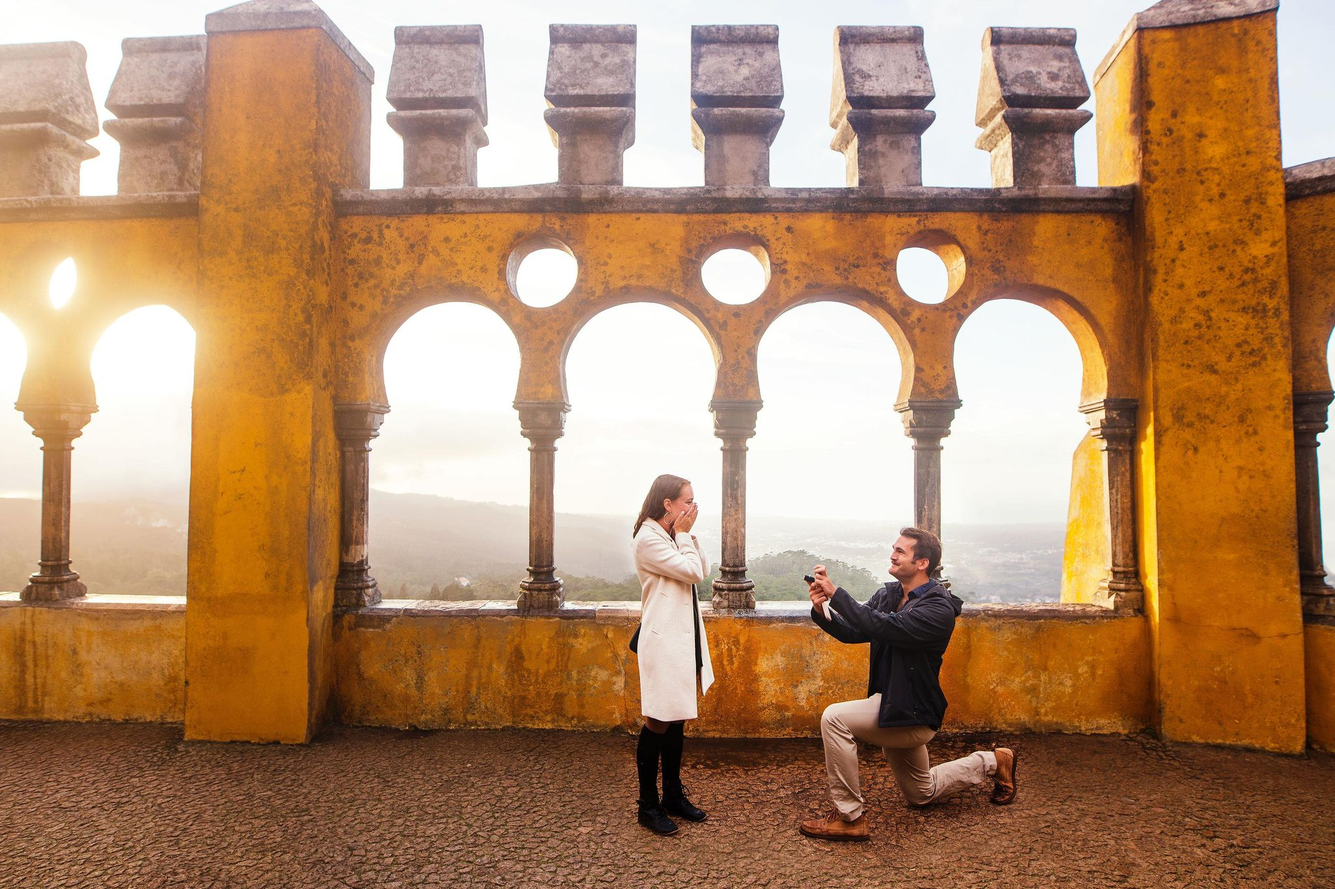
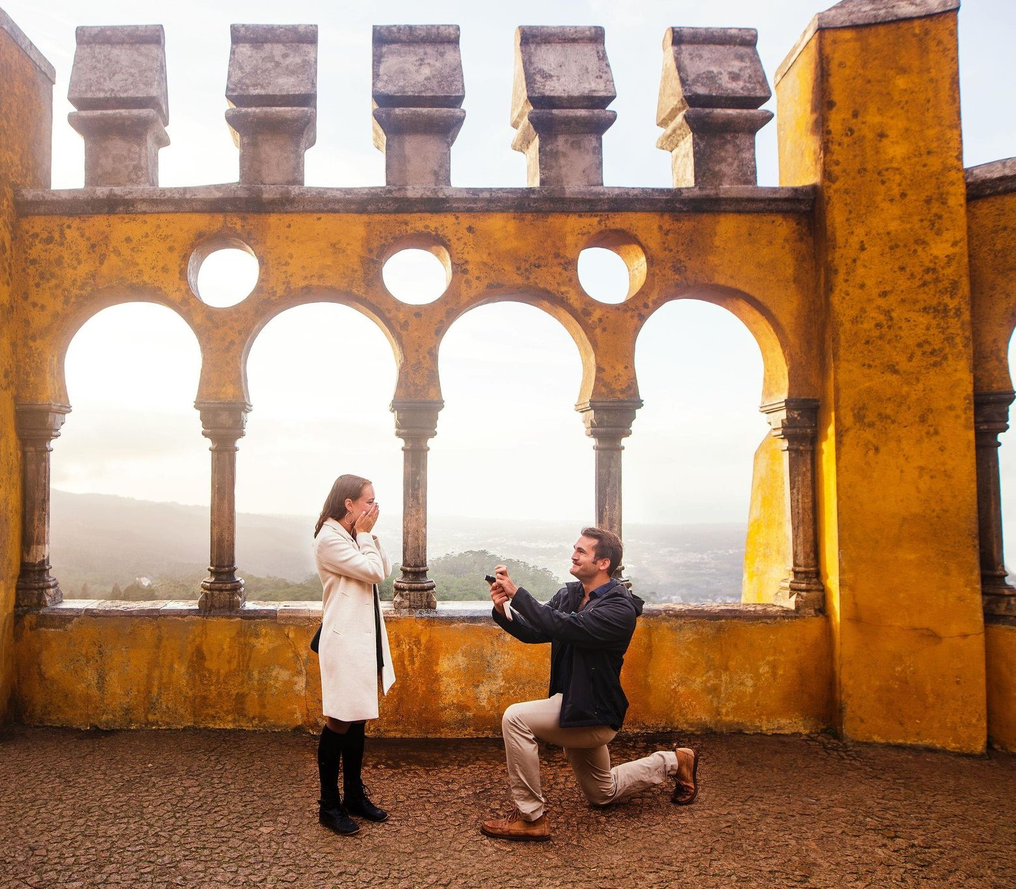
ML Data Prediction

diff --git a/css/style.css b/css/style.css
@@ -6,25 +6,17 @@ body {
     text-align: center;
 }
 
-.cormorant-header {
-    font-family: "Cormorant", serif;
-    font-optical-sizing: auto;
-    font-weight: 500;
-    font-size:60px;
-    font-style: normal;
-}
-
-.cormorant-middle {
-    font-family: "Cormorant", serif;
+h1, h2, h3, h4 {
+    font-family: "Montserrat", sans-serif;
     font-optical-sizing: auto;
     font-weight: 300;
     font-style: normal;
 }
 
-.cormorant-text {
-    font-family: "Cormorant", serif;
+p {
+    font-family: "Montserrat", sans-serif;
     font-optical-sizing: auto;
-    font-weight: 100;
+    font-weight: 200;
     font-style: normal;
 }
 
@@ -46,7 +38,7 @@ body {
     width: 100vw; /* Full width of the viewport */
     height: 100vh; /* Full height of the viewport */
     object-fit: cover; /* Ensures proportions are maintained while filling the viewport */
-    object-position: bottom right; /* Ensures the top of the image is prioritized */
+    object-position: bottom; /* Ensures the top of the image is prioritized */
     padding: 0;
     margin: 0;
     z-index: -1;
@@ -76,4 +68,18 @@ div.center {
 
 div.day {
     border-top: 1px black solid ;
+}
+
+.border {
+    position: absolute;
+    padding: 0;
+    width: 100vw;
+    height: 100vh;
+    background: 
+        white, /* The inner content background */
+        url('your-floral-image.png') repeat; /* The repeating floral image */
+    /* background-origin: border-box; Ensures the floral image is only on the padding/border */
+    /* background-clip: border-box, padding-box; */
+    /* background-size: auto; Keeps the floral image in its original size */
+    /* box-sizing: border-box; Ensures the padding doesn't affect the width/height */
 }

diff --git a/index.html b/index.html
@@ -8,7 +8,7 @@
     <link rel="stylesheet" href="css/style.css">
     <link rel="preconnect" href="https://fonts.googleapis.com">
     <link rel="preconnect" href="https://fonts.gstatic.com" crossorigin>
-    <link href="https://fonts.googleapis.com/css2?family=Cormorant:ital,wght@0,300..700;1,300..700&display=swap" rel="stylesheet">
+    <link href="https://fonts.googleapis.com/css2?family=Cormorant&family=Montserrat:ital,wght@0,100..900;1,100..900&display=swap" rel="stylesheet">
 </head>
 <body>
     <div class="row cover">
@@ -20,14 +20,15 @@
         <img src="images/proposal_lisbon.jpg" alt="lisbon">
     </div>
     <div class="row date">
+        <img class="border" src="images/flower-border.png" alt="flower border">
         <div class="col-md-2"></div>
-        <div class="col-md-4">
+        <div class="col-md-4" style="z-index: 1;">
             <h3 class="cormorant-middle">Thursday July 10, 2025</h3>
             <h3 class="cormorant-middle">San Diego, CA, USA</h3>
             <h3 class="cormorant-middle" id="countdown"></h3>
         </div>
         <div class="col-md-4">
-            <img src="images/save-the-date.jpg" alt="Save the date">
+            <img src="images/save-the-date.jpg" alt="Save the date" style="z-index: -2;">
         </div>
         <div class="col-md-2"></div>
     </div>
